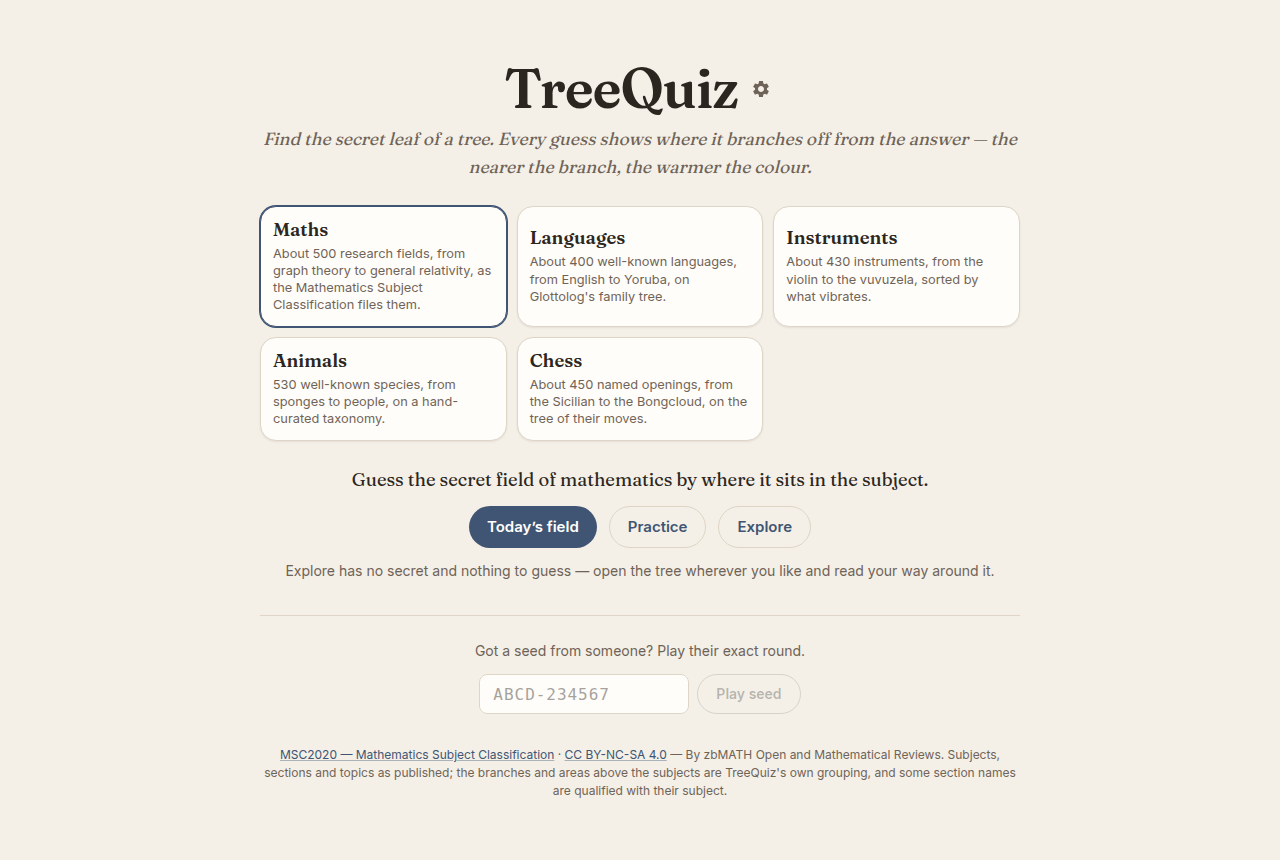
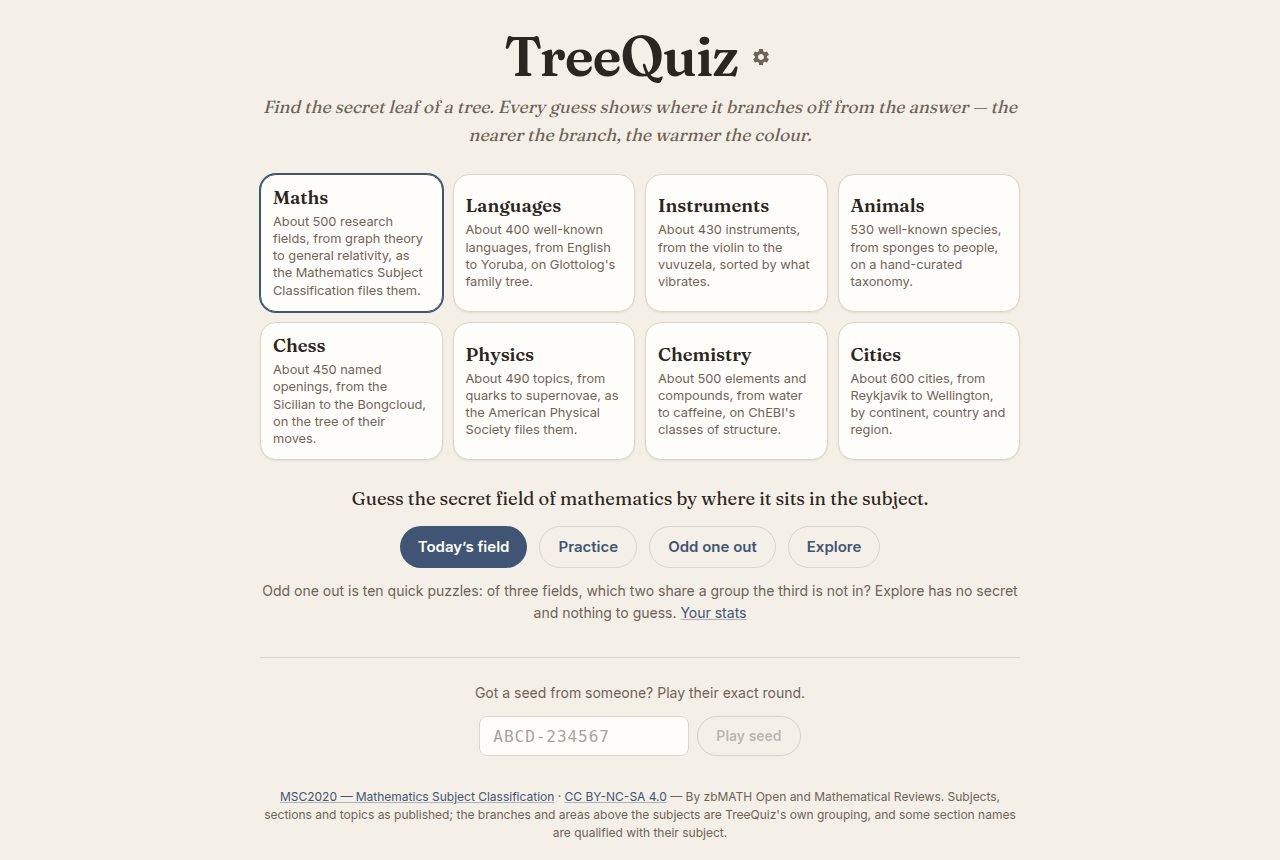
Show the front page's eight trees, and odd one out, in the README
The reveal now keeps the three nearest skipped ranks above a box: on the
animals tree the top box carried eleven.

Claude-Session: https://claude.ai/code/session_01GfUyGDn7sRXSYc5ExBhDJq

diff --git a/frontend/src/oddReveal.ts b/frontend/src/oddReveal.ts
@@ -13,6 +13,11 @@ import type { Puzzle } from './engine/odd'
 import { labelOf, type ChainStyle, type Dataset, type RawNode } from './engine/tree'
 import { joinSteps } from './gameLayout'
 
+/** The most skipped labels a box shows, nearest first kept: eleven ranks above
+ *  Boreoeutheria were four lines of small print over a one-word box. Moves are
+ *  kept whole, since a line of moves is what a chess position is. */
+export const ABOVE_MAX = 3
+
 export interface Box {
   /** The node's name, for its popup. */
   name: string
@@ -44,7 +49,8 @@ function box(ds: Dataset, lineage: RawNode[], from: number, at: number, style: C
   // Steps of a path read as one path: a position is named by every move since
   // the box above; a leaf keeps its own name, with those moves under it.
   const text = stepwise && !leaf ? joinSteps([...skipped, labelOf(node)], style) : labelOf(node)
-  const above = stepwise ? (leaf ? joinSteps(skipped, style) : '') : skipped.join(' › ')
+  const near = skipped.length > ABOVE_MAX ? ['…', ...skipped.slice(-ABOVE_MAX)] : skipped
+  const above = stepwise ? (leaf ? joinSteps(skipped, style) : '') : near.join(' › ')
   const full = stepwise && !leaf && at > 0 ? joinSteps(lineage.slice(1, at + 1).map(labelOf), style) : labelOf(node)
   return { name: node.name, text, above, full, rank: node.rank ?? '', warmth: warmthOf(ds).get(node.name)! }
 }

diff --git a/frontend/src/oddReveal.test.ts b/frontend/src/oddReveal.test.ts
@@ -31,7 +31,7 @@ describe('the reveal', () => {
   it('shows the root when that is where the three meet', () => {
     const r = reveal(ds, puzzle(['Tokyo', 'Osaka'], 'Paris', 'Asia', 'World'))
     expect(r.shared).toMatchObject({ text: 'World', above: '' })
-    expect(r.odd.above).toBe('Europe › Western Europe › France › Île-de-France')
+    expect(r.odd.above).toBe('… › Western Europe › France › Île-de-France')
   })
 
   it('says why in one sentence', () => {

diff --git a/README.md b/README.md
@@ -199,6 +199,22 @@ Delayed Alapin share 2.Nf3, then turn off with 2…e6. The Najdorf shares all th
 way to 5.Nc3, and only Black's fifth move tells it from the answer. Every
 position's popup draws its board.
 
+## Odd one out
+
+The second game asks the tree a different question. Of three leaves, which
+two share a group the third is not in? A rooted tree answers that exactly:
+either one pair meets below where all three meet, or all three meet at once
+and no pair is closer. Puzzles are only ever of the first kind, so each has
+one right answer and no judgement goes into it.
+
+![Odd one out: the rabbit is closer to the orangutan than to the sheep](docs/images/odd.png)
+
+Above, the rabbit and the orangutan share Euarchontoglires, and the sheep
+joins them only at Boreoeutheria, so the sheep is the odd one out. Most
+people guess the orangutan. A set is ten puzzles, getting harder as the
+place where all three meet gets more specific. Each answer is drawn as the
+tree of the three. Every day has its own set, the same for everyone.
+
 ## Layout
 
 ```
